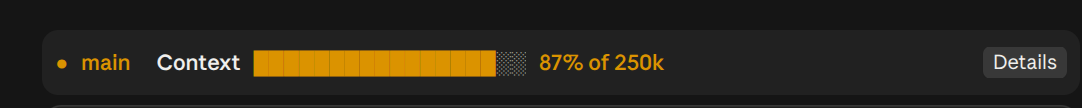
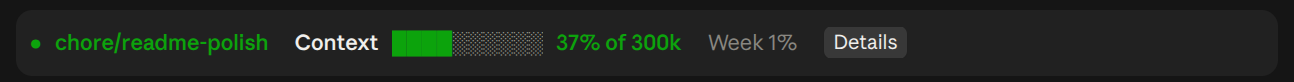
docs: refresh screenshots

Changed region(s): [[0.0, 0.3659, 0.7015, 0.7317], [0.0305, 0.9756, 1.0, 1.0], [0.915, 0.4878, 0.976, 0.6585]]

diff --git a/tool-cards/README.md b/tool-cards/README.md
@@ -6,8 +6,6 @@ Desktop uses the full padded card treatment. The terminal uses a compact two-lin
 
 ![Tool Cards showing a completed Bash command](../docs/images/tool-cards.png)
 
-![Tool Cards showing expanded Bash output](../docs/images/tool-cards-details.png)
-
 ## Install
 
 Add the marketplace once, then install the mod:
